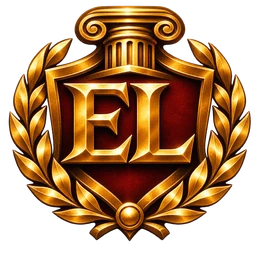
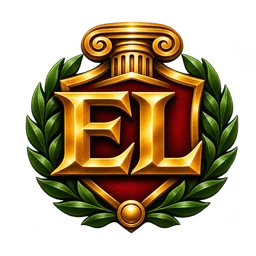
Green-wreath league crest with a simplified shield at 32px and below; Home playoffs card in the restrained palette with league gold
Claude-Session: https://claude.ai/code/session_018JEKqpc28EeJtf4ELpRV1L

diff --git a/site/restrained.css b/site/restrained.css
@@ -339,3 +339,26 @@ body.rs .hshd:has(+ .hswall) { position: relative; display: flex; flex-direction
   background: linear-gradient(90deg, #0b0806 0%, #0b0806 35%, rgba(11,8,6,.2) 70%), #0b0806 url(/a/el-trophy.webp) right center / auto 100% no-repeat; }
 body.rs .hshd:has(+ .hswall) b { font: 800 40px 'Saira Condensed', sans-serif; color: #F4D58A; }
 body.rs .hshd:has(+ .hswall) span { color: rgba(255,255,255,.75); }
+
+/* ---------- League badge: full crest at normal sizes, simplified shield at 32px and below ---------- */
+body.rs .fbd[style*="#b07a1e"][style*="28px"], body.rs .fbd.s28[style*="#b07a1e"], body.rs .fbd.s20[style*="#b07a1e"], body.rs .fbd.s24[style*="#b07a1e"] { background-image: url(/a/el-badge-sm.webp) !important; }
+
+/* ---------- Home playoffs moment: restrained card, league gold instead of the blue gradient ---------- */
+body.rs .hmpo { background: var(--card) !important; color: var(--tx) !important; box-shadow: 0 1px 2px rgba(16,24,40,.05), 0 6px 16px -8px rgba(16,24,40,.12) !important; border: 1px solid var(--ln); border-top: 3px solid #C9A24A; }
+body.rs .hmpoh small { color: #A35A06 !important; }
+body.rs.th-dark .hmpoh small { color: #ECB958 !important; }
+body.rs .hmpoh h2 { font-family: 'Saira Condensed', sans-serif !important; font-weight: 800 !important; font-size: 32px !important; }
+body.rs .hmpath { background: var(--sub) !important; color: var(--mut) !important; box-shadow: inset 0 0 0 1px var(--ln); }
+body.rs .hmpath b { color: var(--tx) !important; }
+body.rs .hmpath.done { background: color-mix(in srgb, var(--up) 12%, transparent) !important; }
+body.rs .hmpath.done b { color: var(--up) !important; }
+body.rs .hmpath.now { background: #C9A24A !important; box-shadow: none; color: rgba(26,18,6,.75) !important; }
+body.rs .hmpath.now b { color: #1a1206 !important; }
+body.rs .hmsemi { background: var(--sub) !important; box-shadow: inset 0 0 0 1px var(--ln) !important; }
+body.rs .hmsemi.me { background: color-mix(in srgb, #C9A24A 10%, var(--card)) !important; box-shadow: inset 0 0 0 2px #C9A24A !important; }
+body.rs .hmsemi small { color: var(--mut) !important; }
+body.rs .hmsr .sn { color: var(--mut) !important; }
+body.rs .hmsr b { font-family: 'Saira Condensed', sans-serif !important; font-weight: 800 !important; font-size: 26px !important; }
+body.rs .hmpob .hmb { background: transparent !important; color: var(--tx) !important; box-shadow: inset 0 0 0 1px var(--ln2) !important; height: 36px; padding: 0 14px; font-size: 13.5px; }
+body.rs .hmpob .hmb.p { background: #ECB958 !important; color: #1a1206 !important; box-shadow: none !important; }
+body.rs .hmpob > span[style] { color: var(--mut) !important; }
